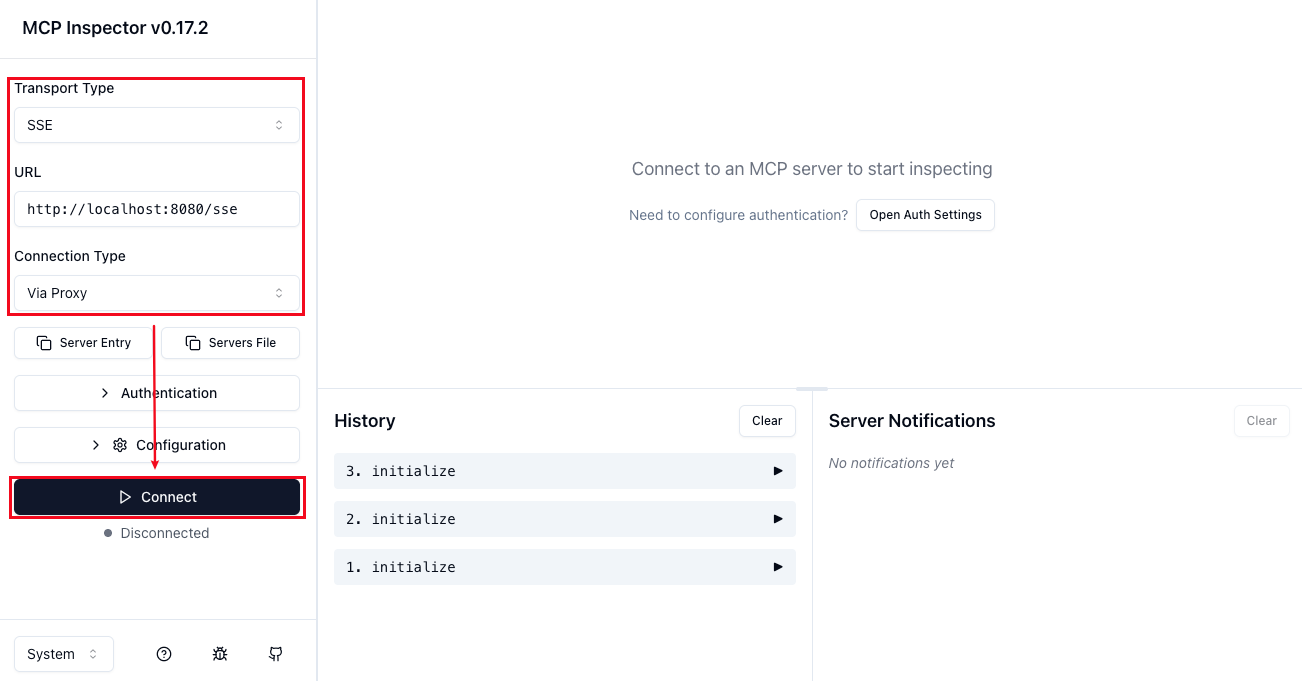
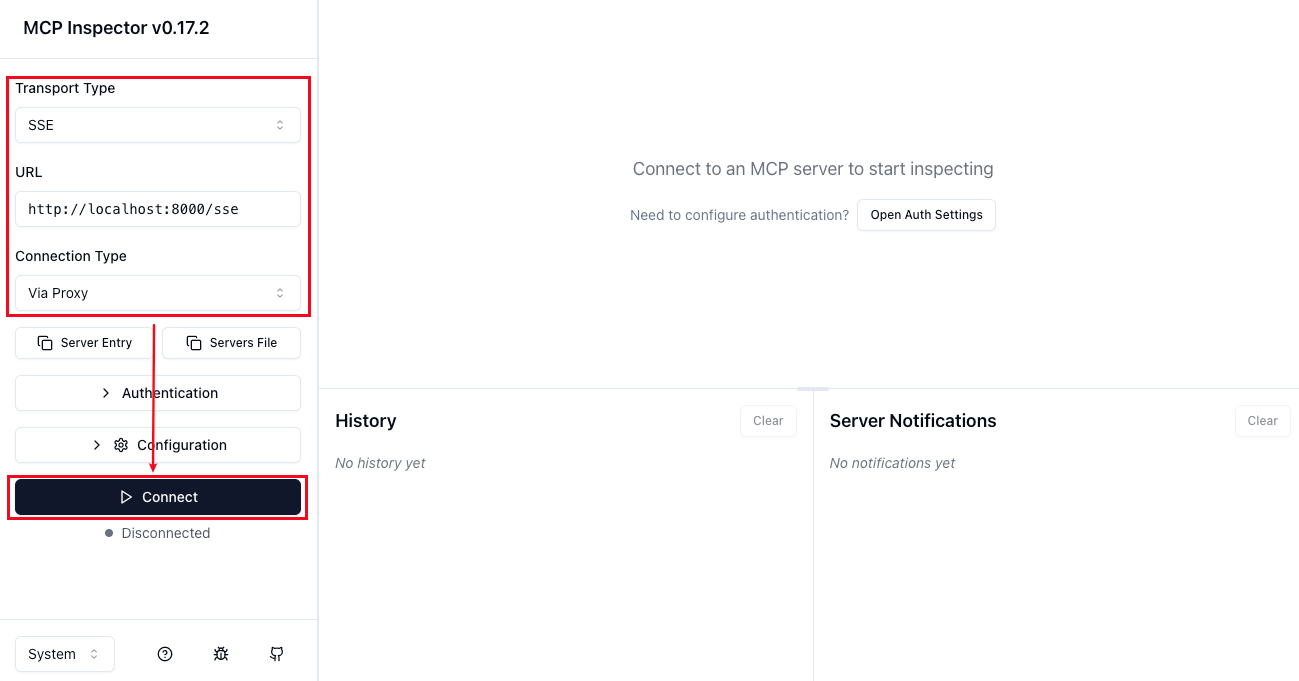
Remove `uvicorn` dependency and simplify SSE server implementation.

diff --git a/sse-mode/weather.py b/sse-mode/weather.py
@@ -1,16 +1,9 @@
 from typing import Any
 import httpx
 from mcp.server.fastmcp import FastMCP
-from starlette.applications import Starlette
-from mcp.server.sse import SseServerTransport
-from starlette.requests import Request
-from starlette.routing import Mount, Route
-from mcp.server import Server
-
-import uvicorn
 
 # Initialize FastMCP server
-mcp = FastMCP("weather")
+mcp = FastMCP("weather", host="127.0.0.1", port=8000, debug=True)
 
 # Constants
 NWS_API_BASE = "https://api.weather.gov"
@@ -96,42 +89,5 @@ Description: {props.get('description', 'No description available')}
 Instructions: {props.get('instruction', 'No specific instructions provided')}
 """
 
-def create_starlette_app(mcp_server: Server, *, debug: bool = False) -> Starlette:
-    """Create a Starlette application that can server the provied mcp server with SSE."""
-    sse = SseServerTransport("/messages/")
-
-    async def handle_sse(request: Request) -> None:
-        async with sse.connect_sse(
-                request.scope,
-                request.receive,
-                request._send,  # noqa: SLF001
-        ) as (read_stream, write_stream):
-            await mcp_server.run(
-                read_stream,
-                write_stream,
-                mcp_server.create_initialization_options(),
-            )
-
-    return Starlette(
-        debug=debug,
-        routes=[
-            Route("/sse", endpoint=handle_sse),
-            Mount("/messages/", app=sse.handle_post_message),
-        ],
-    )
-
-
 if __name__ == "__main__":
-    mcp_server = mcp._mcp_server  # noqa: WPS437
-
-    import argparse
-
-    parser = argparse.ArgumentParser(description='Run MCP SSE-based server')
-    parser.add_argument('--host', default='0.0.0.0', help='Host to bind to')
-    parser.add_argument('--port', type=int, default=8080, help='Port to listen on')
-    args = parser.parse_args()
-
-    # Bind SSE request handling to MCP server
-    starlette_app = create_starlette_app(mcp_server, debug=True)
-
-    uvicorn.run(starlette_app, host=args.host, port=args.port)
+    mcp.run(transport="sse")

diff --git a/sse-mode/README.md b/sse-mode/README.md
@@ -4,9 +4,6 @@
 
 ### 說明
 SSE (Server-Sent Events) 模式通常用於將 MCP Server 部署為獨立的 Web 服務，它基於標準的 HTTP 協定。
-我們將使用 uvicorn（一個常見的 ASGI Server）來運行我們的 FastMCP 應用程式。
-
-- 參考文件：https://medium.com/nerd-for-tech/building-your-first-mcp-server-with-python-a-beginners-guide-b76665e2b2ff
 
 ### 🔧 步驟一：環境準備與 uv 安裝
 uv 是用來執行和管理 Python 專案的工具，可以安裝套件、管理環境和執行腳本
@@ -31,113 +28,49 @@ uv 是用來執行和管理 Python 專案的工具，可以安裝套件、管理
     - README.md
 
 ### 📦 步驟二：安裝必要套件
-> 💡 對 SSE 模式的 MCP Server 來說，只有 `mcp`+`uvicorn` 是必要的。`httpx` 則是範例中用來處理網路請求的額外套件。
+> 💡 對 SSE 模式的 MCP Server 來說，只有 `mcp` 是必要的。`httpx` 則是範例中用來處理網路請求的額外套件。
 ```shell
-uv add mcp uvicorn httpx
+uv add mcp httpx
 ```
 
 ### 📝 步驟三：實現 MCP Server 邏輯
 
-建立 `weather.py`，並輸入以下內容：
+建立 weather.py，參考 [weather.py](weather.py) 內容 <br/>
+
+主要重點說明：
 ```python
-# 引入必要模組
-from typing import Any
-import httpx
-from mcp.server.fastmcp import FastMCP
-from starlette.applications import Starlette
-from mcp.server.sse import SseServerTransport
-from starlette.requests import Request
-from starlette.routing import Mount, Route
-from mcp.server import Server
+# 初始化 MCP server
+mcp = FastMCP("weather", host="127.0.0.1", port=8000, debug=True)
 
-# 初始化 MCP server，並給予名稱
-mcp = FastMCP("weather")
-
-# 建立 MCP Tool: get_alerts
+# 建立 MCP Tool
 @mcp.tool()
 async def get_alerts(state: str) -> str:
-    """Get weather alerts for a US state.
-
-    Args:
-        state: Two-letter US state code (e.g. CA, NY)
     """
-
+    撰寫說明
+    """
+    
     # 撰寫業務邏輯，並回傳結果
-    # 完整內容請參考 Source Code
-
     return f"Fetching alerts for {state}..."
 
-# 建立 MCP Tool: get_forecast
-@mcp.tool()
-async def get_forecast(latitude: float, longitude: float) -> str:
-    """Get weather forecast for a location.
-
-    Args:
-        latitude: Latitude of the location
-        longitude: Longitude of the location
-    """
-
-    # 撰寫業務邏輯，並回傳結果
-    # 完整內容請參考 Source Code
-
-    return f"Forecast for Latitude: {latitude}, Longitude: {longitude}"
-
-# 包裝成 Starlette 框架
-def create_starlette_app(mcp_server: Server, *, debug: bool = False) -> Starlette:
-    """Create a Starlette application that can server the provide mcp server with SSE."""
-    sse = SseServerTransport("/messages/")
-
-    async def handle_sse(request: Request) -> None:
-        async with sse.connect_sse(
-                request.scope,
-                request.receive,
-                request._send,  # noqa: SLF001
-        ) as (read_stream, write_stream):
-            await mcp_server.run(
-                read_stream,
-                write_stream,
-                mcp_server.create_initialization_options(),
-            )
-
-    return Starlette(
-        debug=debug,
-        routes=[
-            Route("/sse", endpoint=handle_sse),
-            Mount("/messages/", app=sse.handle_post_message),
-        ],
-    )
-
-# 使用 uvicorn 運行
+# 指定使用 sse 運行
 if __name__ == "__main__":
-    mcp_server = mcp._mcp_server
-
-    import argparse
-
-    parser = argparse.ArgumentParser(description='Run MCP SSE-based server')
-    parser.add_argument('--host', default='0.0.0.0', help='Host to bind to')
-    parser.add_argument('--port', type=int, default=8080, help='Port to listen on')
-    args = parser.parse_args()
-
-    # Bind SSE request handling to MCP server
-    starlette_app = create_starlette_app(mcp_server, debug=True)
-
-    uvicorn.run(starlette_app, host=args.host, port=args.port)
+    mcp.run(transport="sse")
 ```
 
 
 ### 🧪 步驟四：測試 MCP Server (使用 Inspector)
-使用 uvicorn 啟動 SSE Server，然後再用 MCP Inspector 進行連線測試。
+啟動 SSE Server，然後再用 MCP Inspector 進行連線測試。
 
-1. 啟動 uvicorn，並指定運行 `weather.py`
+1. 啟動 SSE Server，並指定運行 `weather.py`
     ```shell
-    python weather.py --host localhost --port 8080
+    python weather.py
     ```
-2. 確認 uvicorn 啟動資訊，Console 會顯示以下資訊，表示您的 MCP Server 已經在 http://127.0.0.1:8080 上運行：
+2. 確認 uvicorn 啟動資訊，Console 會顯示以下資訊，表示您的 MCP Server 已經在 http://127.0.0.1:8000 上運行：
     ```text
     INFO:     Started server process [85847]
     INFO:     Waiting for application startup.
     INFO:     Application startup complete.
-    INFO:     Uvicorn running on http://localhost:8080 (Press CTRL+C to quit)
+    INFO:     Uvicorn running on http://localhost:8000 (Press CTRL+C to quit)
     ```
 3. 啟動 MCP inspector
     ```shell
@@ -153,7 +86,7 @@ if __name__ == "__main__":
     🚀 MCP Inspector is up and running at:
        http://localhost:6274/?MCP_PROXY_AUTH_TOKEN=ada07a3c319d499a3cd65f6ec6f50....
     ```
-5. 進行連線：選擇 SSE Mode → URL 輸入 http://localhost:8080/sse → 選擇 Vai Proxy → 點 Connect
+5. 進行連線：選擇 SSE Mode → URL 輸入 http://localhost:8000/sse → 選擇 Vai Proxy → 點 Connect
     ![sse.png](imgs/sse.png)
 6. 進行測試：切換到 Tools 分頁 → 選擇 List Tools 即可看到您定義工具清單 → 選擇要測試的 Tool → 輸入參數進行測試
     ![test-tools.png](imgs/test-tools.png)
